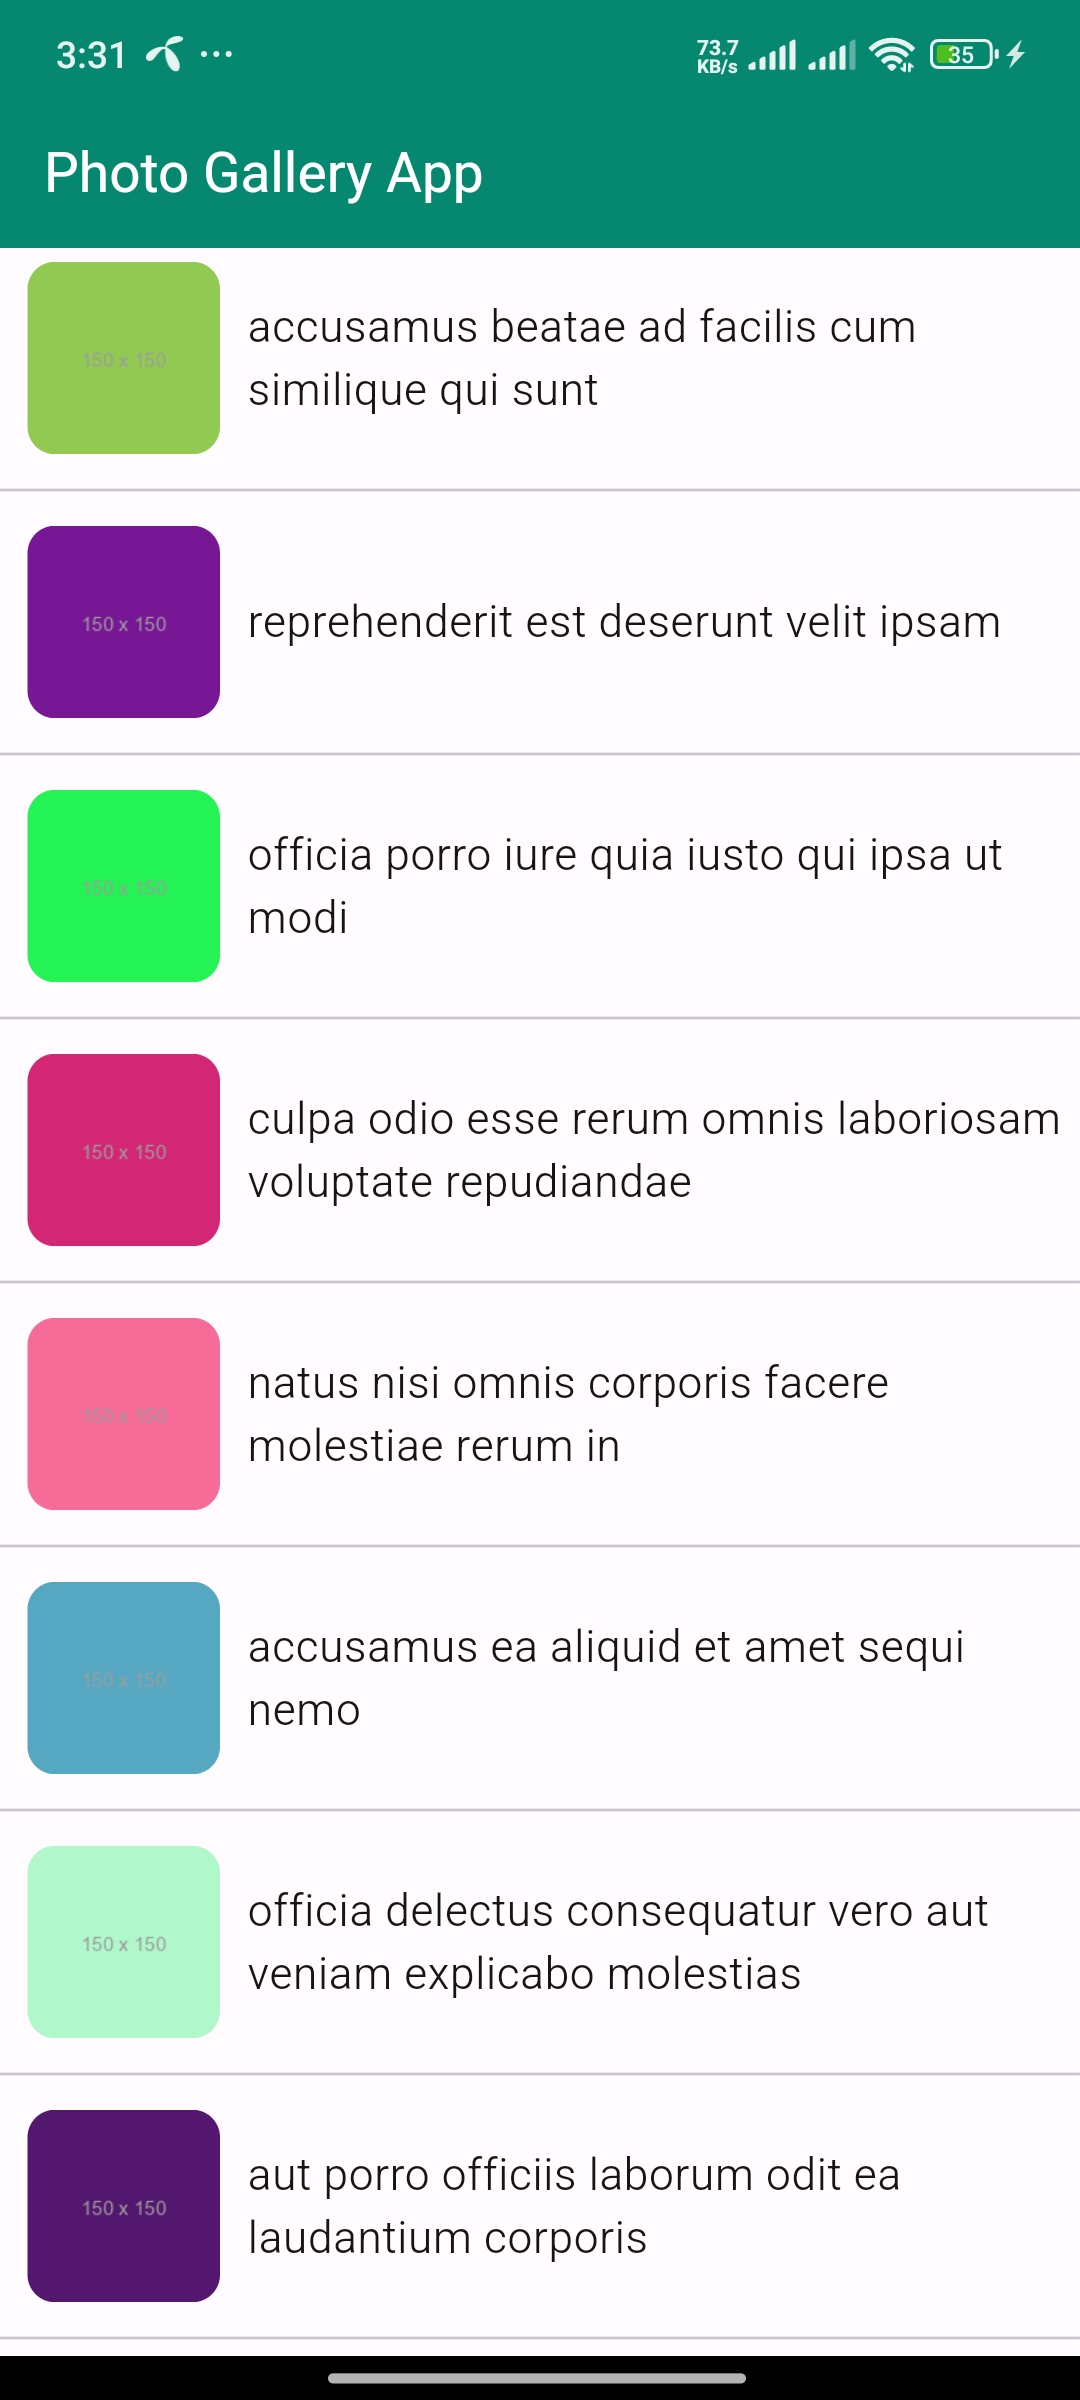
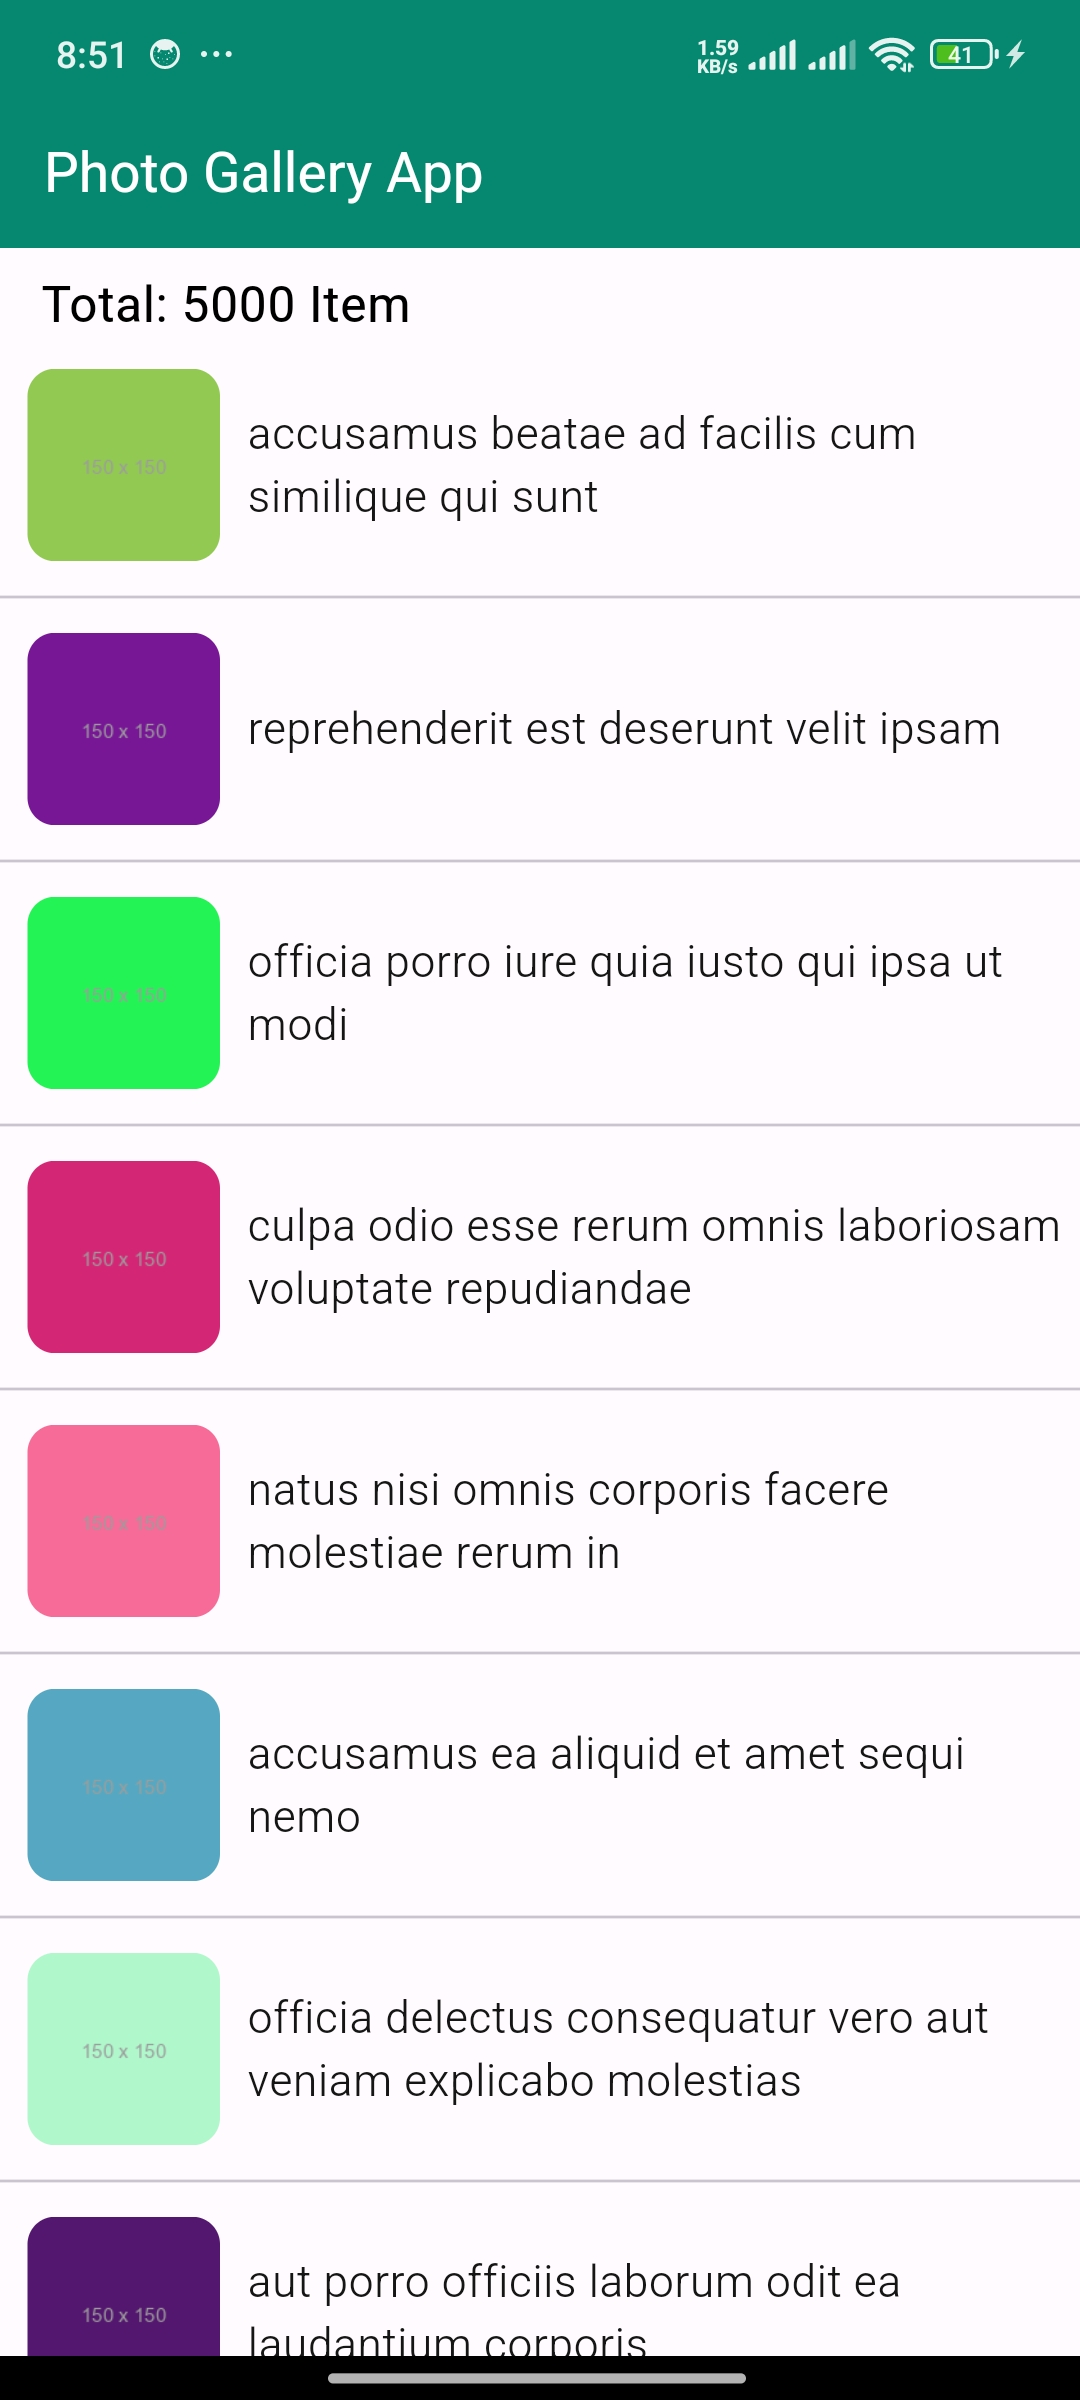
change

diff --git a/lib/view/screens/home_screen.dart b/lib/view/screens/home_screen.dart
@@ -1,7 +1,9 @@
+import 'package:flutter/cupertino.dart';
 import 'package:flutter/material.dart';
 import 'package:photo_gallery_with_api/controller/photo_data_controller.dart';
 import 'package:photo_gallery_with_api/services/photo_api_fetch.dart';
 import 'package:photo_gallery_with_api/utils/app_route.dart';
+import 'package:photo_gallery_with_api/utils/custom_color.dart';
 import 'package:photo_gallery_with_api/view/widgets/photo_list.dart';
 import '../../model/photo_model.dart';
 
@@ -62,24 +64,43 @@ class _HomeScreenState extends State<HomeScreen> {
                     ? const Center(
                         child: Text("No photos found."),
                       )
-                    : ListView.separated(
-                        itemCount: photoModel.length,
-                        itemBuilder: (context, index) {
-                          return PhotoList(
-                            photoUrl: photoModel[index].thumbnailUrl,
-                            photoTitle: photoModel[index].title,
-                            onTap: () {
-                              Navigator.pushNamed(
-                                context,
-                                AppRoute.detailsView,
-                                arguments: photoModel[index],
-                              );
-                            },
-                          );
-                        },
-                        separatorBuilder: (context, index) {
-                          return const Divider();
-                        },
+                    : Column(
+                        crossAxisAlignment: CrossAxisAlignment.start,
+                        children: [
+                          Padding(
+                            padding: const EdgeInsets.only(
+                                left: 15, top: 8, bottom: 5, right: 15),
+                            child: Text(
+                              "Total: ${photoModel.length} Item",
+                              style: const TextStyle(
+                                color: CustomColor.black,
+                                fontWeight: FontWeight.w500,
+                                fontSize: 18,
+                              ),
+                            ),
+                          ),
+                          Expanded(
+                            child: ListView.separated(
+                              itemCount: photoModel.length,
+                              itemBuilder: (context, index) {
+                                return PhotoList(
+                                  photoUrl: photoModel[index].thumbnailUrl,
+                                  photoTitle: photoModel[index].title,
+                                  onTap: () {
+                                    Navigator.pushNamed(
+                                      context,
+                                      AppRoute.detailsView,
+                                      arguments: photoModel[index],
+                                    );
+                                  },
+                                );
+                              },
+                              separatorBuilder: (context, index) {
+                                return const Divider();
+                              },
+                            ),
+                          ),
+                        ],
                       ),
               );
             }
